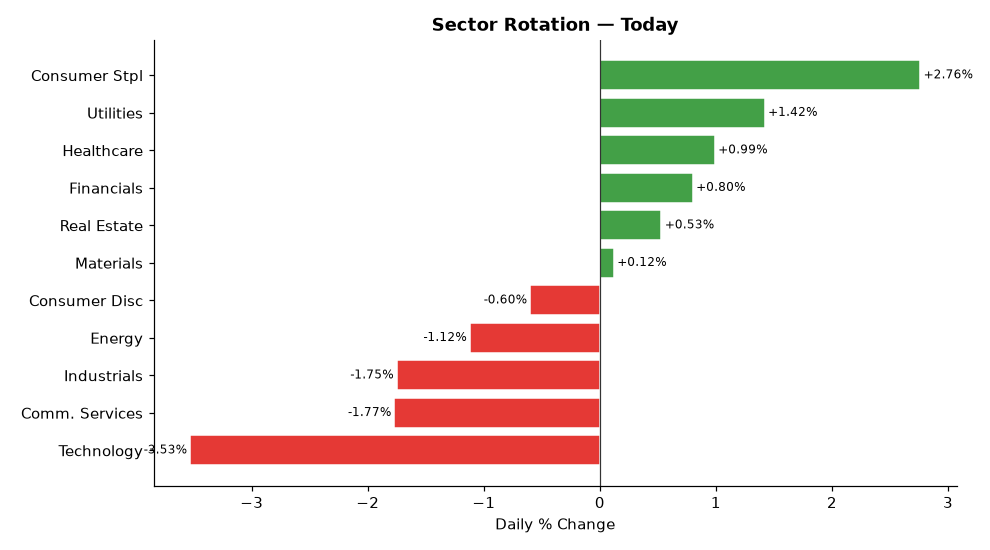
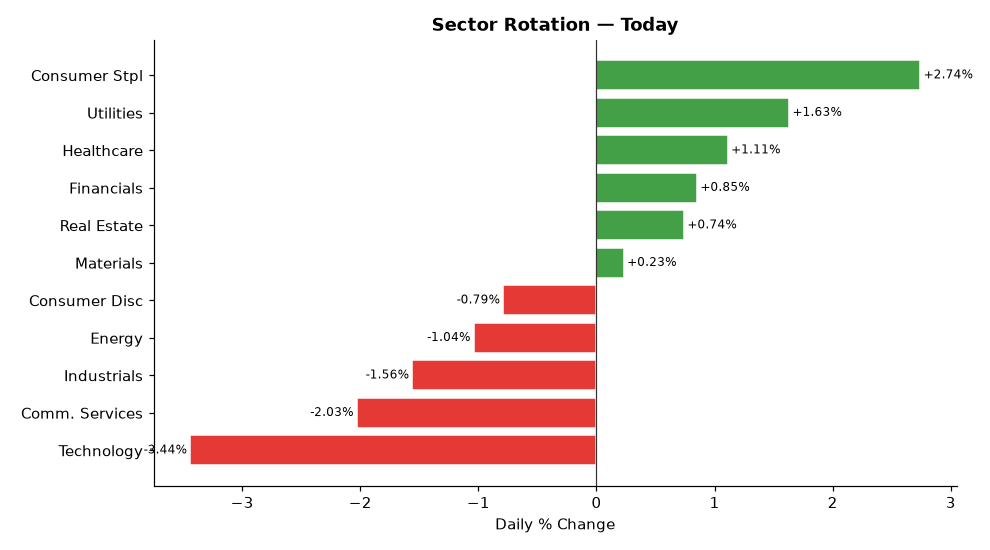
deploy: b7fadf5b06deb90e7ebb92f278722414bdd9750d

diff --git a/index.html b/index.html
@@ -4,7 +4,7 @@
   <meta charset="UTF-8">
   <meta name="viewport" content="width=device-width,initial-scale=1">
   <meta http-equiv="Cache-Control" content="no-cache,no-store,must-revalidate">
-  <title>Stock Breakout Screener — 2026-10-22 18:05</title>
+  <title>Stock Breakout Screener — 2026-10-22 18:41</title>
   <style>
     *{box-sizing:border-box;margin:0;padding:0}
     body{font-family:'Segoe UI',Arial,sans-serif;background:#f0f2f5;
@@ -34,7 +34,7 @@
 
 <div class="hdr">
   <h1>📈 Stock Breakout Screener</h1>
-  <p>Updated: 2026-10-22 18:05 UTC &nbsp;·&nbsp; Phase: Regular Market Hours &nbsp;·&nbsp;
+  <p>Updated: 2026-10-22 18:41 UTC &nbsp;·&nbsp; Phase: Regular Market Hours &nbsp;·&nbsp;
      129 stocks screened &nbsp;·&nbsp; Top 5 by conviction score</p>
 </div>
 
@@ -69,7 +69,7 @@
             </span>
           </div>
           <ul style="margin:0;padding-left:18px;font-size:13px;
-                     color:#333;line-height:1.8"><li style="margin:5px 0"><span style="background:#ffebee;color:#b71c1c;padding:2px 7px;border-radius:4px;font-size:11px;">❌</span> Volume: <b>0.8× average</b> — Above-average activity</li><li style="margin:5px 0"><span style="background:#e8f5e9;color:#2e7d32;padding:2px 7px;border-radius:4px;font-size:11px;">✅</span> Candle: close <b>$106.49</b> vs open <b>$102.97</b> (+3.4%) — regular market close</li><li style="margin:5px 0"><span style="background:#e8f5e9;color:#2e7d32;padding:2px 7px;border-radius:4px;font-size:11px;">✅</span> 200-Day MA: price <b>$106.49</b> vs MA <b>$88.75</b> — <b>✅ Above</b> long-term trend</li><li style="margin:5px 0"><span style="background:#e8f5e9;color:#2e7d32;padding:2px 7px;border-radius:4px;font-size:11px;">✅</span> Inst. ownership: <b>96.1%</b> · MFI: <b>83.8</b> · Market cap: <b>$38.6B</b></li><li style="margin:5px 0"><span style="background:#fffde7;color:#f57f17;padding:2px 7px;border-radius:4px;font-size:11px;">⚠</span> Last similar breakout: <b>Aug 19, 2026</b> → <b>+3.6%</b> over 10 trading days</li></ul>
+                     color:#333;line-height:1.8"><li style="margin:5px 0"><span style="background:#ffebee;color:#b71c1c;padding:2px 7px;border-radius:4px;font-size:11px;">❌</span> Volume: <b>0.8× average</b> — Above-average activity</li><li style="margin:5px 0"><span style="background:#e8f5e9;color:#2e7d32;padding:2px 7px;border-radius:4px;font-size:11px;">✅</span> Candle: close <b>$106.52</b> vs open <b>$102.97</b> (+3.4%) — regular market close</li><li style="margin:5px 0"><span style="background:#e8f5e9;color:#2e7d32;padding:2px 7px;border-radius:4px;font-size:11px;">✅</span> 200-Day MA: price <b>$106.52</b> vs MA <b>$88.75</b> — <b>✅ Above</b> long-term trend</li><li style="margin:5px 0"><span style="background:#e8f5e9;color:#2e7d32;padding:2px 7px;border-radius:4px;font-size:11px;">✅</span> Inst. ownership: <b>96.1%</b> · MFI: <b>83.9</b> · Market cap: <b>$38.6B</b></li><li style="margin:5px 0"><span style="background:#fffde7;color:#f57f17;padding:2px 7px;border-radius:4px;font-size:11px;">⚠</span> Last similar breakout: <b>Aug 19, 2026</b> → <b>+3.6%</b> over 10 trading days</li></ul>
         </div>
         <div style="background:#fff;border:1px solid #ddd;border-radius:10px;
                     padding:16px 20px;margin-bottom:12px;
@@ -86,7 +86,7 @@
             </span>
           </div>
           <ul style="margin:0;padding-left:18px;font-size:13px;
-                     color:#333;line-height:1.8"><li style="margin:5px 0"><span style="background:#fffde7;color:#f57f17;padding:2px 7px;border-radius:4px;font-size:11px;">⚠</span> Volume: <b>1.5× average</b> — Above-average activity</li><li style="margin:5px 0"><span style="background:#fffde7;color:#f57f17;padding:2px 7px;border-radius:4px;font-size:11px;">⚠</span> Candle: close <b>$166.01</b> vs open <b>$162.14</b> (+2.4%) — regular market close</li><li style="margin:5px 0"><span style="background:#e8f5e9;color:#2e7d32;padding:2px 7px;border-radius:4px;font-size:11px;">✅</span> 200-Day MA: price <b>$166.01</b> vs MA <b>$146.61</b> — <b>✅ Above</b> long-term trend</li><li style="margin:5px 0"><span style="background:#e8f5e9;color:#2e7d32;padding:2px 7px;border-radius:4px;font-size:11px;">✅</span> Inst. ownership: <b>71.8%</b> · MFI: <b>85.8</b> · Market cap: <b>$385.6B</b></li></ul>
+                     color:#333;line-height:1.8"><li style="margin:5px 0"><span style="background:#fffde7;color:#f57f17;padding:2px 7px;border-radius:4px;font-size:11px;">⚠</span> Volume: <b>1.6× average</b> — Above-average activity</li><li style="margin:5px 0"><span style="background:#fffde7;color:#f57f17;padding:2px 7px;border-radius:4px;font-size:11px;">⚠</span> Candle: close <b>$166.39</b> vs open <b>$162.14</b> (+2.6%) — regular market close</li><li style="margin:5px 0"><span style="background:#e8f5e9;color:#2e7d32;padding:2px 7px;border-radius:4px;font-size:11px;">✅</span> 200-Day MA: price <b>$166.39</b> vs MA <b>$146.62</b> — <b>✅ Above</b> long-term trend</li><li style="margin:5px 0"><span style="background:#e8f5e9;color:#2e7d32;padding:2px 7px;border-radius:4px;font-size:11px;">✅</span> Inst. ownership: <b>71.8%</b> · MFI: <b>85.9</b> · Market cap: <b>$386.5B</b></li></ul>
         </div>
         <div style="background:#fff;border:1px solid #ddd;border-radius:10px;
                     padding:16px 20px;margin-bottom:12px;
@@ -103,7 +103,7 @@
             </span>
           </div>
           <ul style="margin:0;padding-left:18px;font-size:13px;
-                     color:#333;line-height:1.8"><li style="margin:5px 0"><span style="background:#ffebee;color:#b71c1c;padding:2px 7px;border-radius:4px;font-size:11px;">❌</span> Volume: <b>0.4× average</b> — Above-average activity</li><li style="margin:5px 0"><span style="background:#e8f5e9;color:#2e7d32;padding:2px 7px;border-radius:4px;font-size:11px;">✅</span> Candle: close <b>$138.12</b> vs open <b>$133.31</b> (+3.6%) — regular market close</li><li style="margin:5px 0"><span style="background:#e8f5e9;color:#2e7d32;padding:2px 7px;border-radius:4px;font-size:11px;">✅</span> 200-Day MA: price <b>$138.12</b> vs MA <b>$134.03</b> — <b>✅ Above</b> long-term trend</li><li style="margin:5px 0"><span style="background:#e8f5e9;color:#2e7d32;padding:2px 7px;border-radius:4px;font-size:11px;">✅</span> Inst. ownership: <b>89.8%</b> · MFI: <b>86.4</b> · Market cap: <b>$23.4B</b></li></ul>
+                     color:#333;line-height:1.8"><li style="margin:5px 0"><span style="background:#ffebee;color:#b71c1c;padding:2px 7px;border-radius:4px;font-size:11px;">❌</span> Volume: <b>0.5× average</b> — Above-average activity</li><li style="margin:5px 0"><span style="background:#e8f5e9;color:#2e7d32;padding:2px 7px;border-radius:4px;font-size:11px;">✅</span> Candle: close <b>$138.49</b> vs open <b>$133.31</b> (+3.9%) — regular market close</li><li style="margin:5px 0"><span style="background:#e8f5e9;color:#2e7d32;padding:2px 7px;border-radius:4px;font-size:11px;">✅</span> 200-Day MA: price <b>$138.49</b> vs MA <b>$134.03</b> — <b>✅ Above</b> long-term trend</li><li style="margin:5px 0"><span style="background:#e8f5e9;color:#2e7d32;padding:2px 7px;border-radius:4px;font-size:11px;">✅</span> Inst. ownership: <b>89.8%</b> · MFI: <b>86.4</b> · Market cap: <b>$23.4B</b></li></ul>
         </div>
         <div style="background:#fff;border:1px solid #ddd;border-radius:10px;
                     padding:16px 20px;margin-bottom:12px;
@@ -120,7 +120,7 @@
             </span>
           </div>
           <ul style="margin:0;padding-left:18px;font-size:13px;
-                     color:#333;line-height:1.8"><li style="margin:5px 0"><span style="background:#ffebee;color:#b71c1c;padding:2px 7px;border-radius:4px;font-size:11px;">❌</span> Volume: <b>0.5× average</b> — Above-average activity</li><li style="margin:5px 0"><span style="background:#e8f5e9;color:#2e7d32;padding:2px 7px;border-radius:4px;font-size:11px;">✅</span> Candle: close <b>$34.72</b> vs open <b>$32.92</b> (+5.5%) — regular market close</li><li style="margin:5px 0"><span style="background:#e8f5e9;color:#2e7d32;padding:2px 7px;border-radius:4px;font-size:11px;">✅</span> 200-Day MA: price <b>$34.72</b> vs MA <b>$34.64</b> — <b>✅ Above</b> long-term trend</li><li style="margin:5px 0"><span style="background:#e8f5e9;color:#2e7d32;padding:2px 7px;border-radius:4px;font-size:11px;">✅</span> Inst. ownership: <b>91.0%</b> · MFI: <b>50.9</b> · Market cap: <b>$18.6B</b></li></ul>
+                     color:#333;line-height:1.8"><li style="margin:5px 0"><span style="background:#ffebee;color:#b71c1c;padding:2px 7px;border-radius:4px;font-size:11px;">❌</span> Volume: <b>0.6× average</b> — Above-average activity</li><li style="margin:5px 0"><span style="background:#e8f5e9;color:#2e7d32;padding:2px 7px;border-radius:4px;font-size:11px;">✅</span> Candle: close <b>$34.74</b> vs open <b>$32.92</b> (+5.5%) — regular market close</li><li style="margin:5px 0"><span style="background:#e8f5e9;color:#2e7d32;padding:2px 7px;border-radius:4px;font-size:11px;">✅</span> 200-Day MA: price <b>$34.74</b> vs MA <b>$34.64</b> — <b>✅ Above</b> long-term trend</li><li style="margin:5px 0"><span style="background:#e8f5e9;color:#2e7d32;padding:2px 7px;border-radius:4px;font-size:11px;">✅</span> Inst. ownership: <b>91.0%</b> · MFI: <b>51.1</b> · Market cap: <b>$18.6B</b></li></ul>
         </div>
         <div style="background:#fff;border:1px solid #ddd;border-radius:10px;
                     padding:16px 20px;margin-bottom:12px;
@@ -137,7 +137,7 @@
             </span>
           </div>
           <ul style="margin:0;padding-left:18px;font-size:13px;
-                     color:#333;line-height:1.8"><li style="margin:5px 0"><span style="background:#ffebee;color:#b71c1c;padding:2px 7px;border-radius:4px;font-size:11px;">❌</span> Volume: <b>0.5× average</b> — Above-average activity</li><li style="margin:5px 0"><span style="background:#ffebee;color:#b71c1c;padding:2px 7px;border-radius:4px;font-size:11px;">❌</span> Candle: close <b>$1014.43</b> vs open <b>$1007.31</b> (+0.7%) — regular market close</li><li style="margin:5px 0"><span style="background:#e8f5e9;color:#2e7d32;padding:2px 7px;border-radius:4px;font-size:11px;">✅</span> 200-Day MA: price <b>$1014.43</b> vs MA <b>$959.18</b> — <b>✅ Above</b> long-term trend</li><li style="margin:5px 0"><span style="background:#e8f5e9;color:#2e7d32;padding:2px 7px;border-radius:4px;font-size:11px;">✅</span> Inst. ownership: <b>74.4%</b> · MFI: <b>79.7</b> · Market cap: <b>$449.5B</b></li></ul>
+                     color:#333;line-height:1.8"><li style="margin:5px 0"><span style="background:#ffebee;color:#b71c1c;padding:2px 7px;border-radius:4px;font-size:11px;">❌</span> Volume: <b>0.6× average</b> — Above-average activity</li><li style="margin:5px 0"><span style="background:#ffebee;color:#b71c1c;padding:2px 7px;border-radius:4px;font-size:11px;">❌</span> Candle: close <b>$1013.22</b> vs open <b>$1007.31</b> (+0.6%) — regular market close</li><li style="margin:5px 0"><span style="background:#e8f5e9;color:#2e7d32;padding:2px 7px;border-radius:4px;font-size:11px;">✅</span> 200-Day MA: price <b>$1013.22</b> vs MA <b>$959.17</b> — <b>✅ Above</b> long-term trend</li><li style="margin:5px 0"><span style="background:#e8f5e9;color:#2e7d32;padding:2px 7px;border-radius:4px;font-size:11px;">✅</span> Inst. ownership: <b>74.4%</b> · MFI: <b>79.8</b> · Market cap: <b>$449.0B</b></li></ul>
         </div>
 
 
@@ -176,10 +176,10 @@
           <td style="background:#c8e6c9">
             96.1%</td>
           <td style="background:#c8e6c9">
-            83.8</td>
+            83.9</td>
           <td style="background:#c8e6c9">Consumer Stpl</td>
           <td style="background:#c8e6c9">
-            127.2%</td>
+            124.4%</td>
           <td style="background:#fff9c4">
             +3.6%</td>
           <td style="font-weight:800;font-size:15px">14/17</td>
@@ -187,17 +187,17 @@
         <tr>
           <td style="font-weight:700;text-align:left;padding-left:10px">
             🟢 PG</td>
-          <td style="background:#fff9c4">1.5×</td>
-          <td style="background:#fff9c4">+2.4%</td>
+          <td style="background:#fff9c4">1.6×</td>
+          <td style="background:#fff9c4">+2.6%</td>
           <td style="background:#c8e6c9">
             ▲ Above</td>
           <td style="background:#c8e6c9">
             71.8%</td>
           <td style="background:#c8e6c9">
-            85.8</td>
+            85.9</td>
           <td style="background:#c8e6c9">Consumer Stpl</td>
           <td style="background:#c8e6c9">
-            123.7%</td>
+            135.9%</td>
           <td style="background:#ffcdd2">
             N/A</td>
           <td style="font-weight:800;font-size:15px">13/17</td>
@@ -205,8 +205,8 @@
         <tr>
           <td style="font-weight:700;text-align:left;padding-left:10px">
             🟢 STZ</td>
-          <td style="background:#ffcdd2">0.4×</td>
-          <td style="background:#c8e6c9">+3.6%</td>
+          <td style="background:#ffcdd2">0.5×</td>
+          <td style="background:#c8e6c9">+3.9%</td>
           <td style="background:#c8e6c9">
             ▲ Above</td>
           <td style="background:#c8e6c9">
@@ -215,7 +215,7 @@
             86.4</td>
           <td style="background:#c8e6c9">Consumer Stpl</td>
           <td style="background:#c8e6c9">
-            123.3%</td>
+            117.2%</td>
           <td style="background:#ffcdd2">
             N/A</td>
           <td style="font-weight:800;font-size:15px">13/17</td>
@@ -223,17 +223,17 @@
         <tr>
           <td style="font-weight:700;text-align:left;padding-left:10px">
             🟢 GIS</td>
-          <td style="background:#ffcdd2">0.5×</td>
+          <td style="background:#ffcdd2">0.6×</td>
           <td style="background:#c8e6c9">+5.5%</td>
           <td style="background:#c8e6c9">
             ▲ Above</td>
           <td style="background:#c8e6c9">
             91.0%</td>
           <td style="background:#fff9c4">
-            50.9</td>
+            51.1</td>
           <td style="background:#c8e6c9">Consumer Stpl</td>
           <td style="background:#c8e6c9">
-            58.3%</td>
+            64.2%</td>
           <td style="background:#ffcdd2">
             N/A</td>
           <td style="font-weight:800;font-size:15px">12/17</td>
@@ -241,17 +241,17 @@
         <tr>
           <td style="font-weight:700;text-align:left;padding-left:10px">
             🟡 COST</td>
-          <td style="background:#ffcdd2">0.5×</td>
-          <td style="background:#ffcdd2">+0.7%</td>
+          <td style="background:#ffcdd2">0.6×</td>
+          <td style="background:#ffcdd2">+0.6%</td>
           <td style="background:#c8e6c9">
             ▲ Above</td>
           <td style="background:#c8e6c9">
             74.4%</td>
           <td style="background:#c8e6c9">
-            79.7</td>
+            79.8</td>
           <td style="background:#c8e6c9">Consumer Stpl</td>
           <td style="background:#c8e6c9">
-            85.7%</td>
+            81.1%</td>
           <td style="background:#ffcdd2">
             N/A</td>
           <td style="font-weight:800;font-size:15px">11/17</td>
@@ -278,57 +278,57 @@
         <tr>
           <td style="text-align:left;padding-left:10px;font-weight:600">
             #1 Consumer Stpl</td>
-          <td style="background:#e8f5e9;color:#2e7d32;font-weight:700">+2.76%</td>
+          <td style="background:#e8f5e9;color:#2e7d32;font-weight:700">+2.74%</td>
         </tr>
         <tr>
           <td style="text-align:left;padding-left:10px;font-weight:600">
             #2 Utilities</td>
-          <td style="background:#e8f5e9;color:#2e7d32;font-weight:700">+1.42%</td>
+          <td style="background:#e8f5e9;color:#2e7d32;font-weight:700">+1.63%</td>
         </tr>
         <tr>
           <td style="text-align:left;padding-left:10px;font-weight:600">
             #3 Healthcare</td>
-          <td style="background:#e8f5e9;color:#2e7d32;font-weight:700">+0.99%</td>
+          <td style="background:#e8f5e9;color:#2e7d32;font-weight:700">+1.11%</td>
         </tr>
         <tr>
           <td style="text-align:left;padding-left:10px;font-weight:600">
             #4 Financials</td>
-          <td style="background:#e8f5e9;color:#2e7d32;font-weight:700">+0.80%</td>
+          <td style="background:#e8f5e9;color:#2e7d32;font-weight:700">+0.85%</td>
         </tr>
         <tr>
           <td style="text-align:left;padding-left:10px;font-weight:600">
             #5 Real Estate</td>
-          <td style="background:#e8f5e9;color:#2e7d32;font-weight:700">+0.53%</td>
+          <td style="background:#e8f5e9;color:#2e7d32;font-weight:700">+0.74%</td>
         </tr>
         <tr>
           <td style="text-align:left;padding-left:10px;font-weight:600">
             #6 Materials</td>
-          <td style="background:#e8f5e9;color:#2e7d32;font-weight:700">+0.12%</td>
+          <td style="background:#e8f5e9;color:#2e7d32;font-weight:700">+0.23%</td>
         </tr>
         <tr>
           <td style="text-align:left;padding-left:10px;font-weight:600">
             #7 Consumer Disc</td>
-          <td style="background:#ffebee;color:#c62828;font-weight:700">-0.60%</td>
+          <td style="background:#ffebee;color:#c62828;font-weight:700">-0.79%</td>
         </tr>
         <tr>
           <td style="text-align:left;padding-left:10px;font-weight:600">
             #8 Energy</td>
-          <td style="background:#ffebee;color:#c62828;font-weight:700">-1.12%</td>
+          <td style="background:#ffebee;color:#c62828;font-weight:700">-1.04%</td>
         </tr>
         <tr>
           <td style="text-align:left;padding-left:10px;font-weight:600">
             #9 Industrials</td>
-          <td style="background:#ffebee;color:#c62828;font-weight:700">-1.75%</td>
+          <td style="background:#ffebee;color:#c62828;font-weight:700">-1.56%</td>
         </tr>
         <tr>
           <td style="text-align:left;padding-left:10px;font-weight:600">
             #10 Comm. Services</td>
-          <td style="background:#ffebee;color:#c62828;font-weight:700">-1.77%</td>
+          <td style="background:#ffebee;color:#c62828;font-weight:700">-2.03%</td>
         </tr>
         <tr>
           <td style="text-align:left;padding-left:10px;font-weight:600">
             #11 Technology</td>
-          <td style="background:#ffebee;color:#c62828;font-weight:700">-3.53%</td>
+          <td style="background:#ffebee;color:#c62828;font-weight:700">-3.44%</td>
         </tr>
     </table>
   </div>
@@ -367,7 +367,7 @@
         <li><b>Scoring weights:</b>
             Inst.Own(3) · Sector(3) · Volume(2) · Breakout(2) ·
             MA200(2) · MFI(2) · History(2) · IV(1) = 17pts max</li>
-        <li><b>Run time:</b> 2026-10-22 18:05 UTC — Market phase: Regular Market Hours</li>
+        <li><b>Run time:</b> 2026-10-22 18:41 UTC — Market phase: Regular Market Hours</li>
       </ul>
     </div>
 
